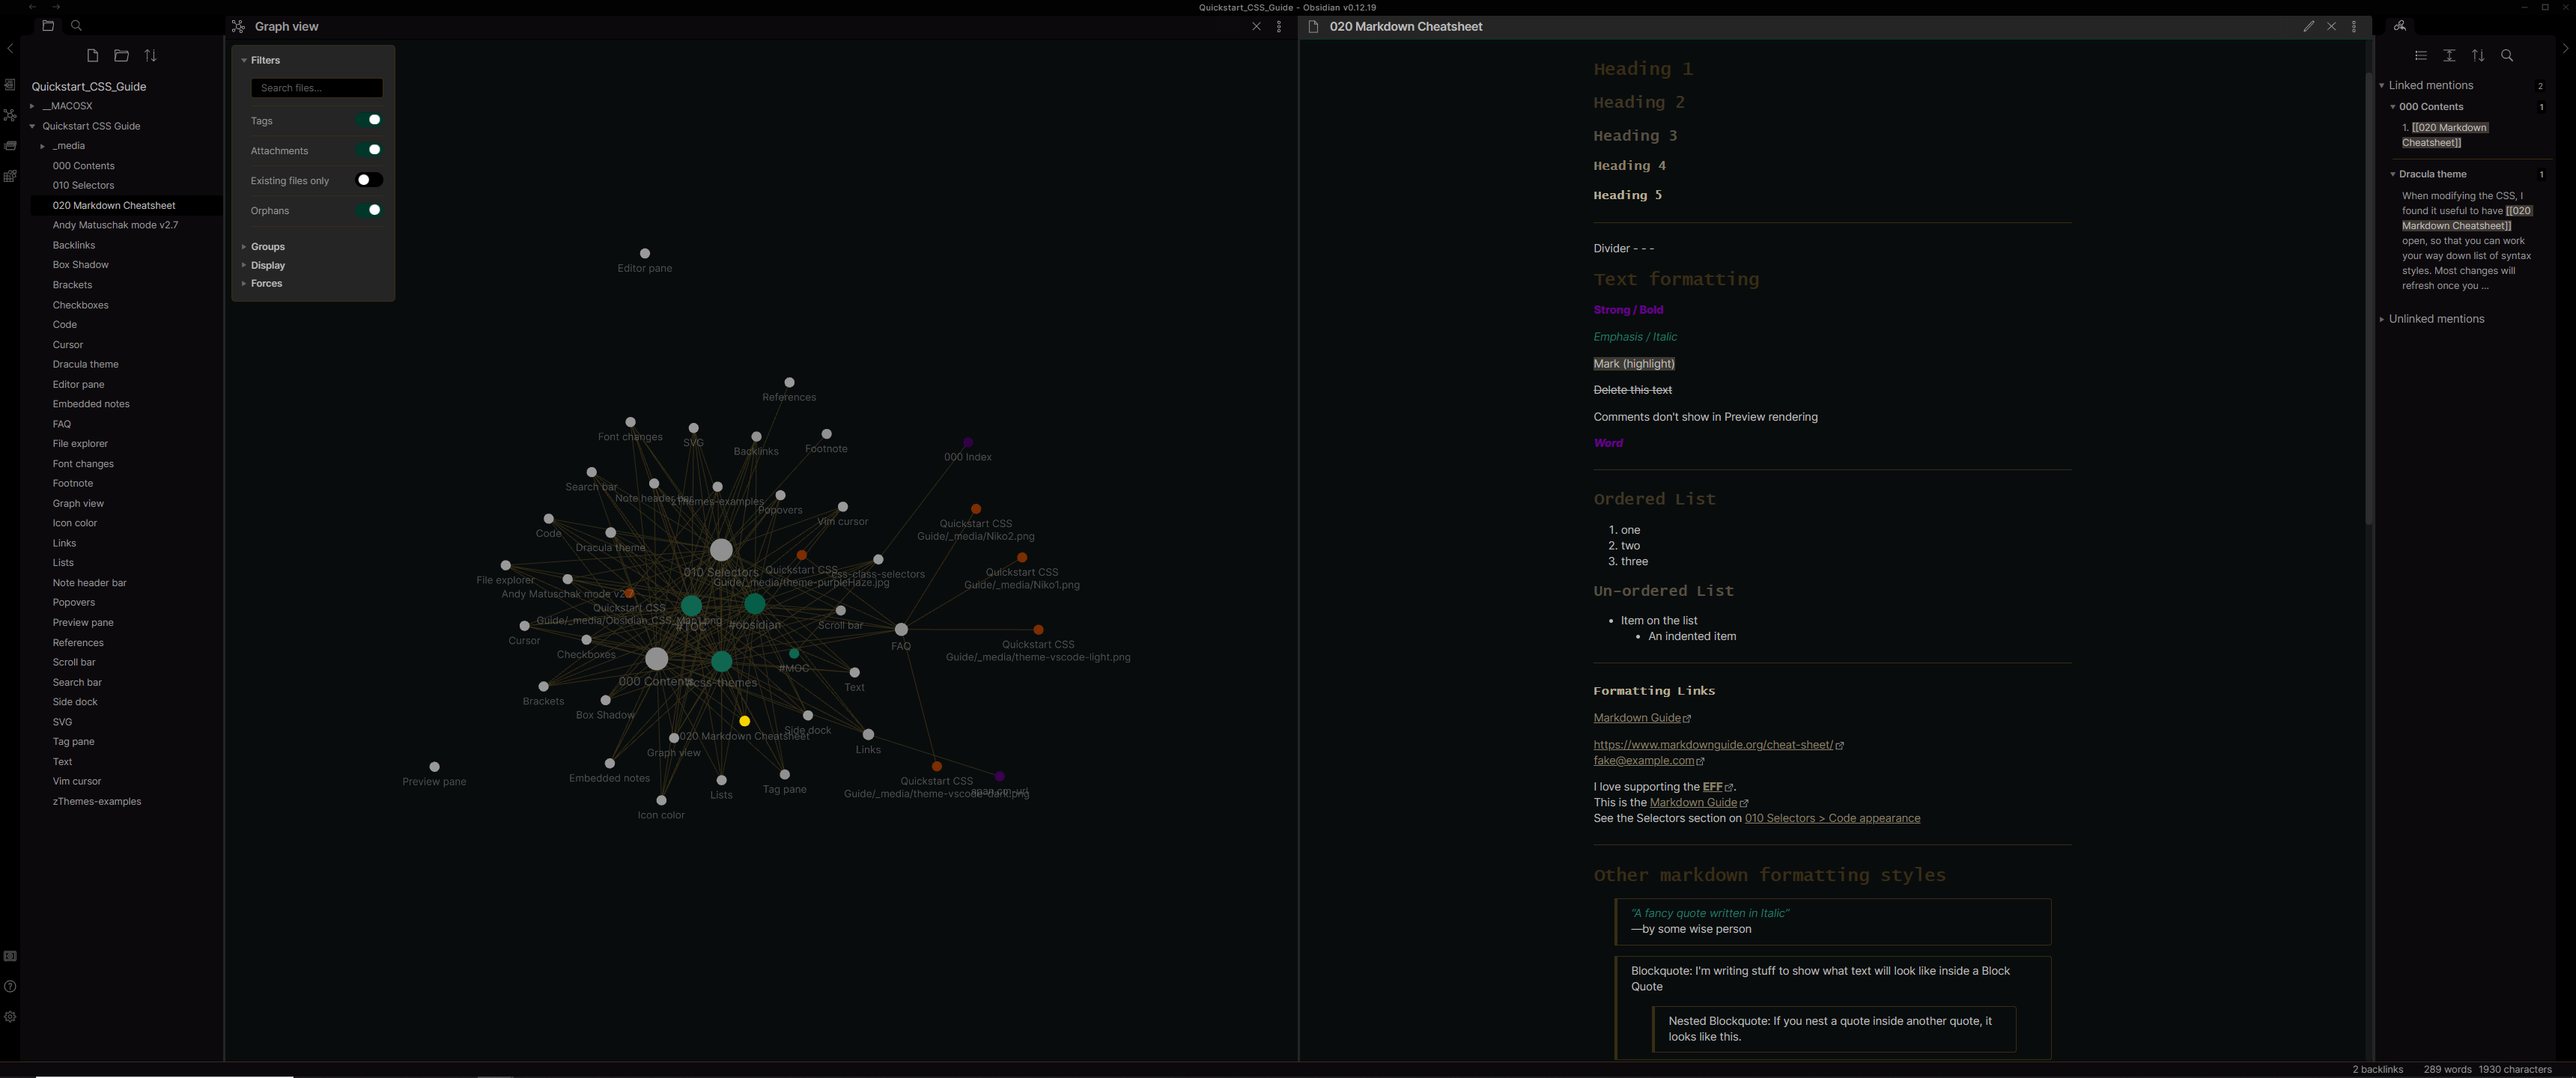
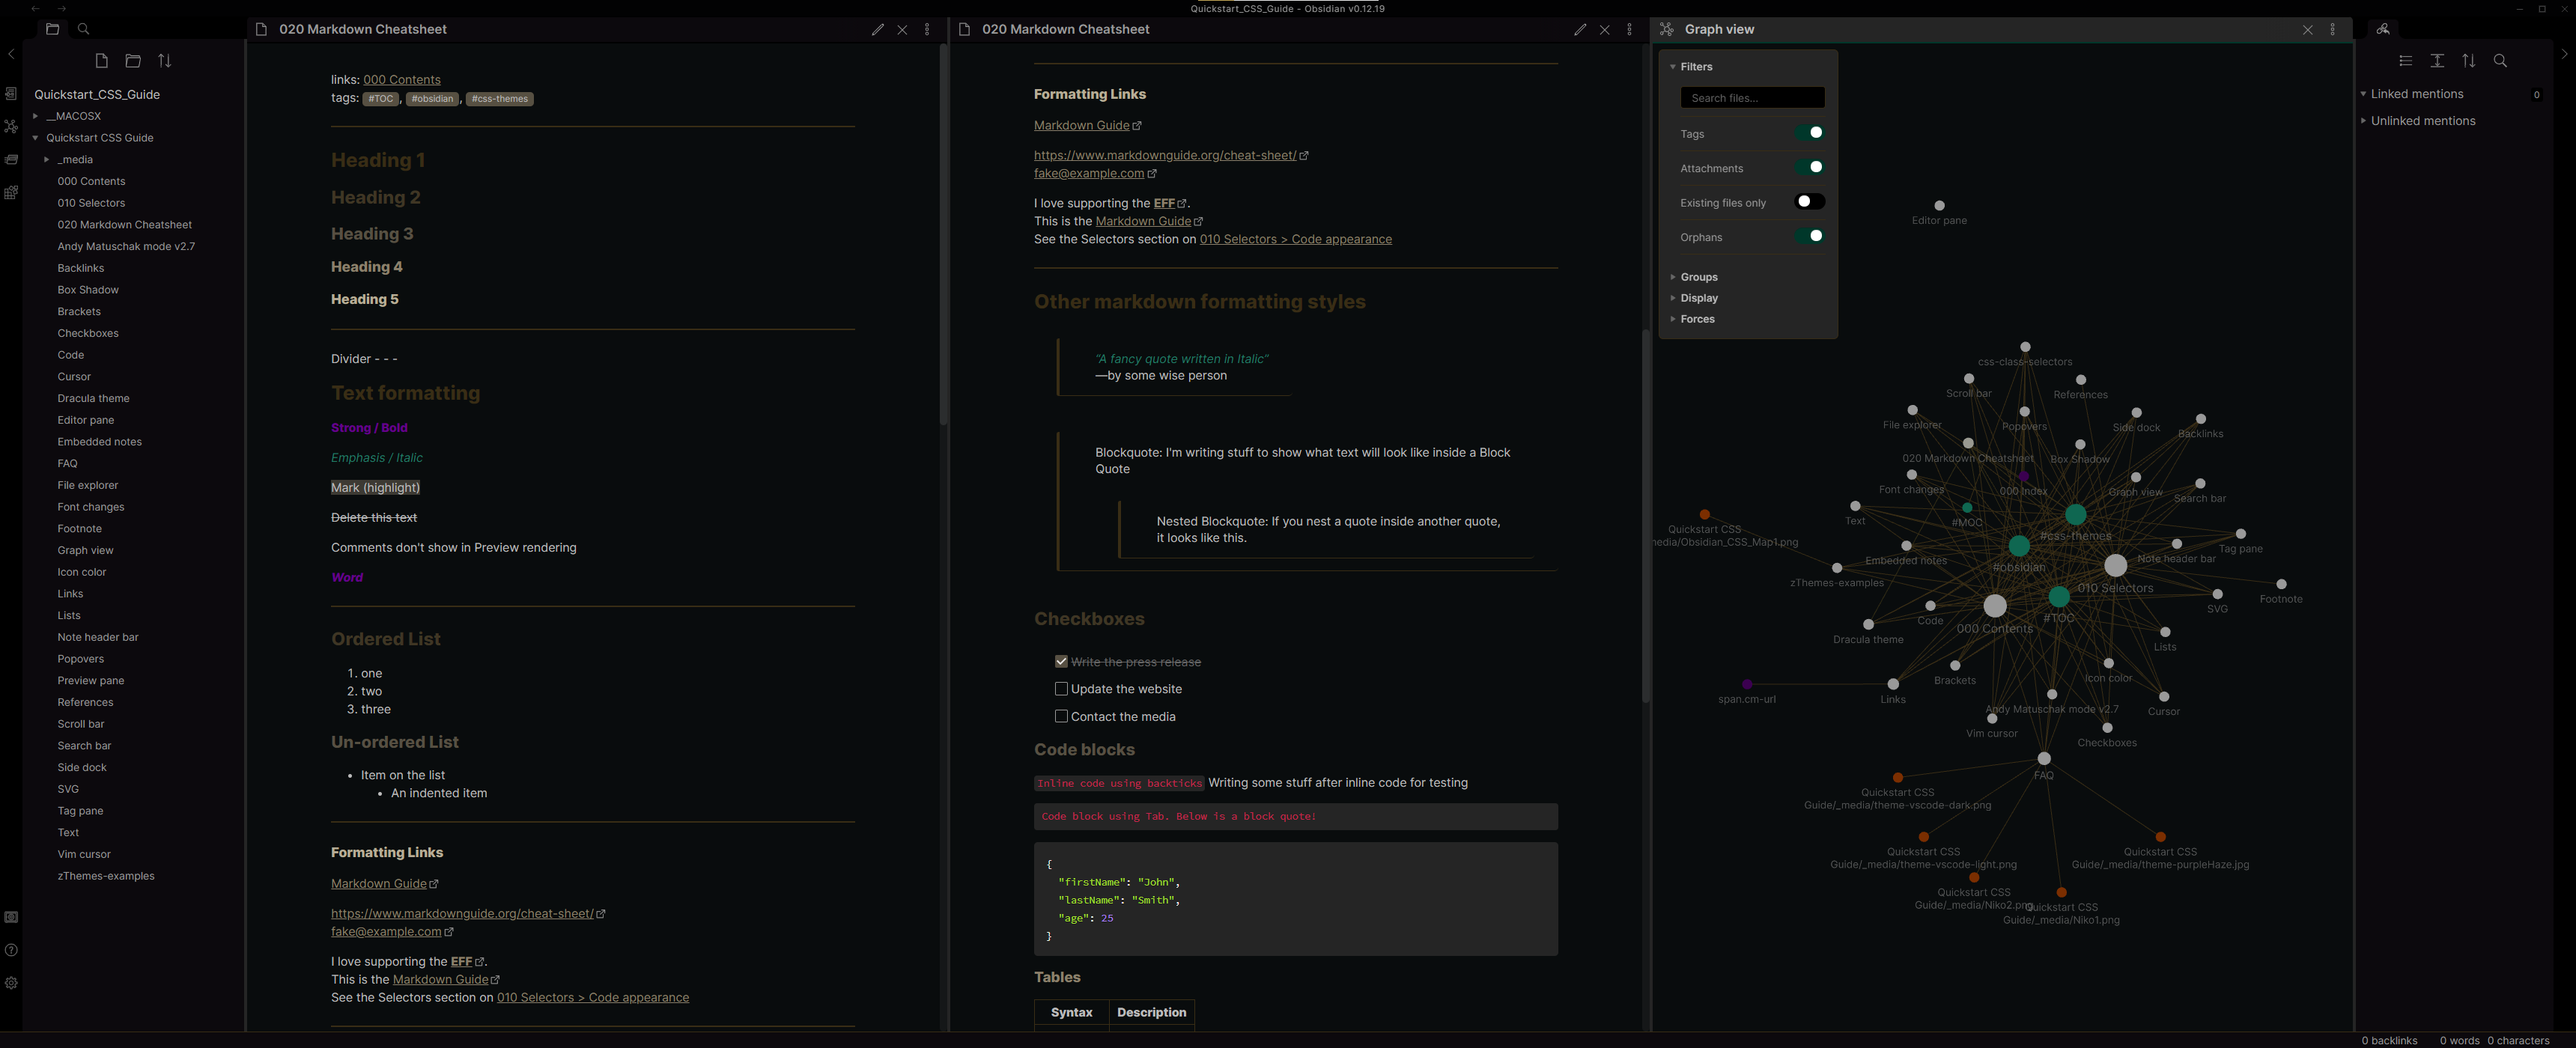
Update the readme to reflect the new snippets and screenshot.

diff --git a/README.md b/README.md
@@ -1,16 +1,19 @@
 # Theme-That-Shall-Not-Be-Named
-**Current Version 0.1.0**
+**Current Version 0.2.0**
 
 A theme for Obsidian.md inspired by the color palette used by Matheus Zarkov in his theme "Slytherin." It pulls from the colors for House Slytherin, Nagini, and some other Harry Potter related things.
 
 Original Theme that inspired this can be found on github at [Obsidian-Slytherin by Matheus Zarkov](https://github.com/MatheusZarkov/Obsidian-Slytherin)
 
-There are currently four functioning snippets that provide the groundwork for this theme.
+There are currently seven functioning snippets that provide the groundwork for this theme.
 
 1. basecolorscheme.css - Establishes the base default colors for everything explicitly defined in the Default Obsidian Theme.
 2. headings.css - Borrows headings formatting from @nickmilo and his Cybertron theme, found here: [Cybertron by Nick Milo](https://github.com/nickmilo/Cybertron)
 3. fonts.css - Establishes fonts to be used by headings.css and further snippets. Also borrows from the naming convention established by @nickmilo - currently set to default to Lucida Console, but can easily be changed to anything you want or completely turned off to revert to system defaults.
 4. graphview.css - Establishes the base default color over-rides for the graph view that are not defined by default values in the Base Color Scheme.
+5. checkboxes.css - Changed the default colors of the check boxes so that they better match the theme as a whole.
+6. blockquote.css - Bringing the way blockquotes are displayed in preview mode in line with the theme. Uses only side and bottom borders.
+7. tags.css - Converts the tags in preview mode to have more of a button-shape, corners are rounded to match the way blockquotes are presented.
 
 Current Status:
 ![Theme](/Theme-That-Shall-Not-Be-Named.png)
